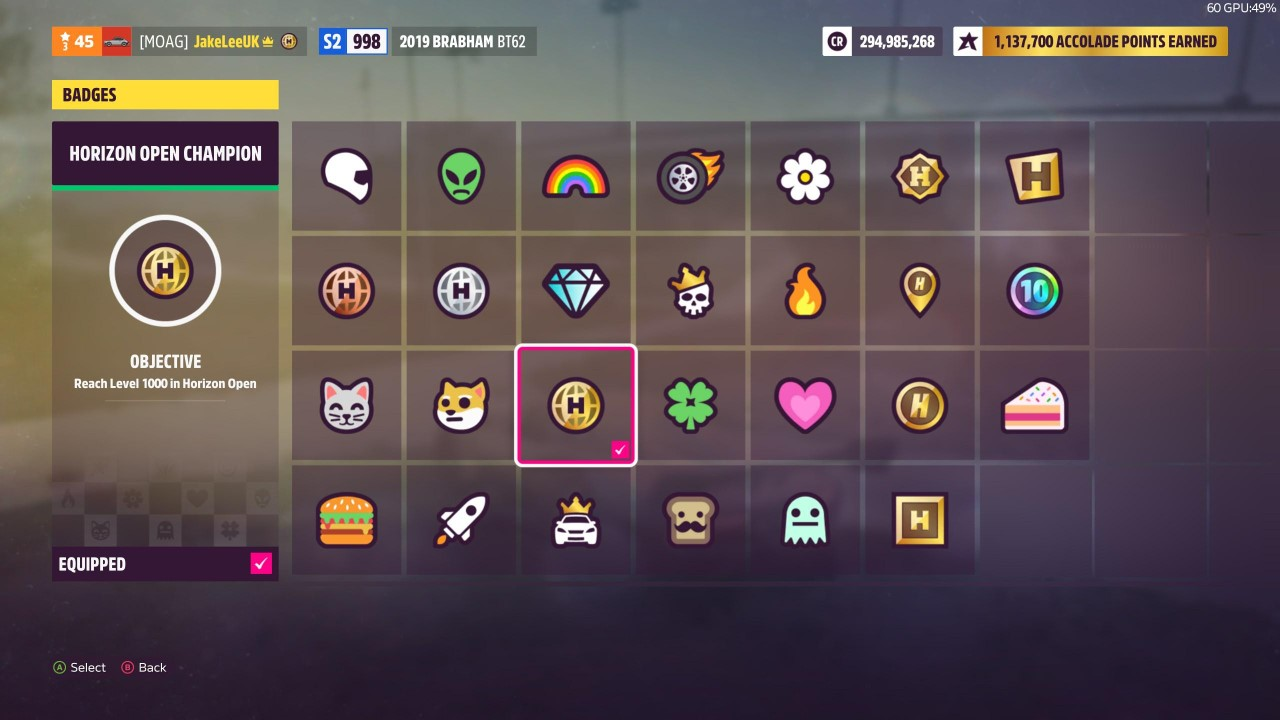
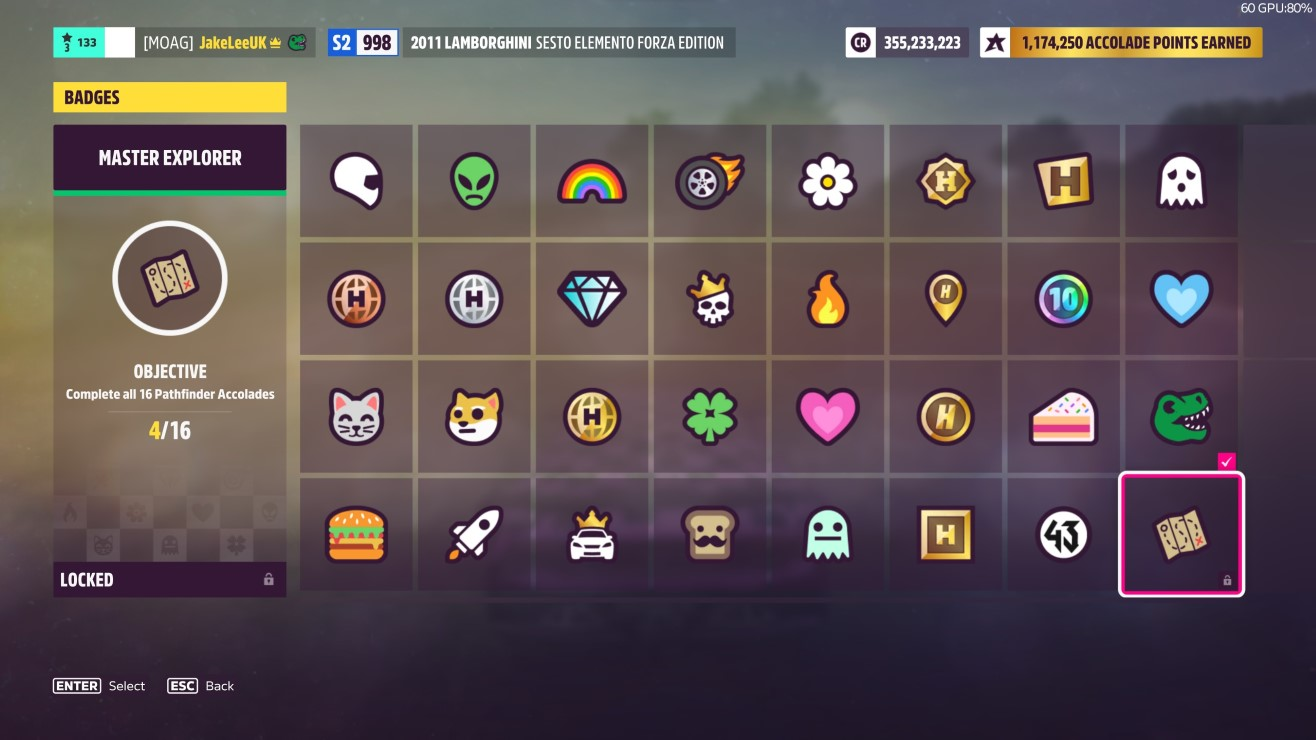
Added 2 missing badges

diff --git a/_posts/2023-01-08-complete-guide-to-forza-horizon-5-badges.md b/_posts/2023-01-08-complete-guide-to-forza-horizon-5-badges.md
@@ -8,16 +8,16 @@ tags:
     - Gaming
 ---
 
-Badges are a post-release addition to Forza Horizon 5 in April 2022 that provide an extra incentive for online gameplay: unlocking badges next to your name in-game. Here's detailed instructions on how to obtain every badge and detailed tips for winning online races, so you can get your elusive gold Horizon Open Champion badge too! Also includes April 2023 new badges.
+Badges are a post-release addition to Forza Horizon 5 in April 2022 that provide an extra incentive for online gameplay: unlocking badges next to your name in-game. Here's detailed instructions on how to obtain every badge and detailed tips for winning online races, so you can get your elusive gold Horizon Open Champion badge too! Also includes April & May 2023's new badges.
 
 ## Badges
 
-There are a total of 30 badges to earn, taking a total of around 100-150 hours:
+There are a total of 32 badges to earn, taking a total of around 100-150 hours:
 
 * 11 Level based badges
 * 3 Completion based badges
-* 6 Action based badges
-* 7 Limited edition badges 
+* 7 Action based badges
+* 8 Limited edition badges 
 * 3 Car collection based badges
 
 Here's how to earn them all!
@@ -71,10 +71,11 @@ Also, I believe "Beep, Beep, Coming Through" originally required banking 100k sc
 | --- | --- | --- |
 | ![](/assets/images/2023/badges-lucky.png)<br>**Lucky Streak**<br>Win 3 PG Games Rounds in a row | ![](/assets/images/2023/badges-score.png)<br>**Give Me Five!**<br>Bank a total of 5,000,000 Skill Score in Horizon Open | ![](/assets/images/2023/badges-score-100k.png)<br>**Beep, Beep, Coming Through**<br>Bank a total of 100,000 Skill Score in Horizon Open |
 | ![](/assets/images/2023/badges-speed.png)<br>**Can't Touch This**<br>Earn 200 Speed Skills in Horizon Open | ![](/assets/images/2023/badges-clean.png)<br>**Love You 3000**<br>Earn 3000 Clean Racing Skills in Horizon Open | ![](/assets/images/2023/badges-drifting.png)<br>**Drifter's Paradise**<br>Earn 6000 Drifting or E-Drifting Skills in Horizon Open |
+| ![](/assets/images/2023/badges-43.png)<br>**#43**<br>Drive any Hoonigan vehicle for 4.3 miles (7km) | | |
 
 ### Limited edition badges
 
-Unfortunately these were all unlocked during the 10 year anniversary series between mid-October and mid-November, and no longer seem unobtainable (with the exception of "Welcome To Horizon 2.0!").
+Unfortunately these were all unlocked during various seasonal events, and no longer seem obtainable. Most are from the 10 year anniversary series between October-November 2022, with "Master Explorer" from between May-June 2023.
 
 They were very easy to unlock by just playing the game each week and completing the festival tasks, hopefully a future update provides an alternative way to earn them. No content should be unobtainable for new players eventually!
 
@@ -82,7 +83,7 @@ They were very easy to unlock by just playing the game each week and completing 
 | --- | --- | --- |
 | ![](/assets/images/2023/badges-wet.png)<br>**May The Forza Be With You**<br>Play Forza Horizon 5 during the Wet Season of the 'Horizon 10-Year Anniversary' | ![](/assets/images/2023/badges-storm.png)<br>**We Meet Again!**<br>Play Forza Horizon 5 during the Storm Season of the 'Horizon 10-Year Anniversary' | ![](/assets/images/2023/badges-spring.png)<br>**You're The Boss**<br>Play Forza Horizon 5 during the Dry Season of the 'Horizon 10-Year Anniversary' |
 | ![](/assets/images/2023/badges-spring.png)<br>**Spring Into Action!**<br>Play Forza Horizon 5 during the Storm Season of the 'Horizon 10-Year Anniversary'^ | ![](/assets/images/2023/badges-story.png)<br>**Welcome to Horizon 2.0!**<br>Complete the 'Horizon 10-Year Anniversary' Initial Experience or the 'Welcome to Mexico' chapter of the 'Horizon Origins' Story | ![](/assets/images/2023/badges-reward1.png)<br>**Happy Anniversary!**<br>Earn the first Series Reward during the 'Horizon 10-Year Anniversary' |
-| ![](/assets/images/2023/badges-reward2.png)<br>**Piece of Cake!**<br>Earn the second Series Reward during the 'Horizon 10-Year Anniversary' |
+| ![](/assets/images/2023/badges-reward2.png)<br>**Piece of Cake!**<br>Earn the second Series Reward during the 'Horizon 10-Year Anniversary' | ![](/assets/images/2023/badges-masterexplorer.png)<br>**Master Explorer**<br>Complete all 16 Pathfinder Accolades |
 
 *^Note this is actually unlocked in the Spring season, the in-game description is incorrect.*
 
